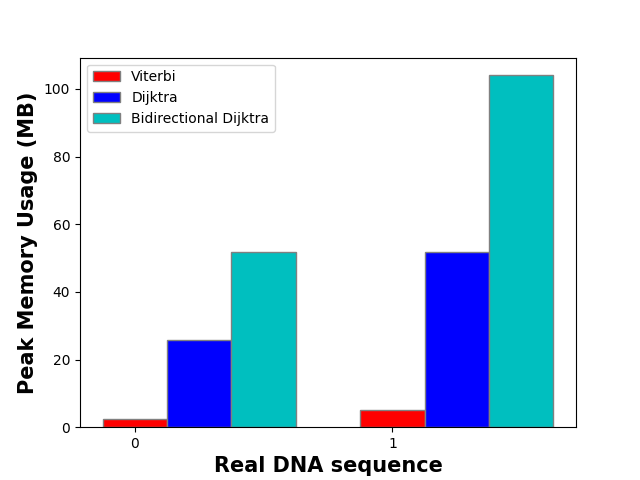
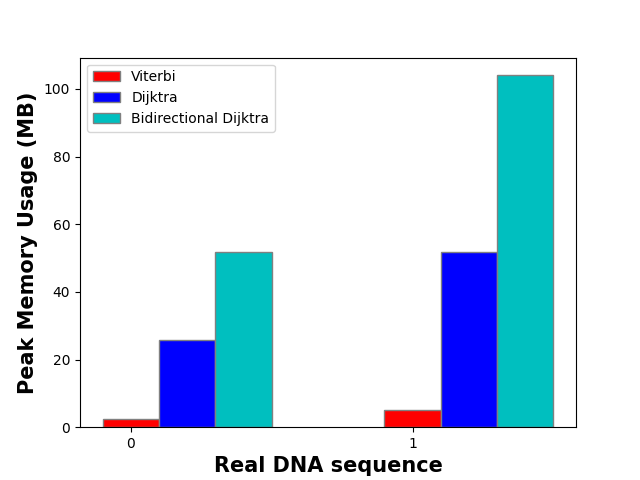
Clean up and finalizing

diff --git a/testing.py b/testing.py
@@ -124,7 +124,7 @@ def generateDijkstraTime():
         tracemalloc.stop()
 
 
-# Running all DNA seq on bidijkstra
+# Running all DNA seq on bi-directional dijkstra
 def generateBidijkstraTime():
     for file in files:
         start_time = time.time_ns()
@@ -144,16 +144,21 @@ def generateRealSeqTime():
     realFile.append(read_fasta_multilines("C:\\Users\\wzhyt\\Downloads\\dont_delete\\CS4775FinalProject\\CS4775FinalProject\\chimpanzee.txt"))
     realFile.append(read_fasta_multilines("C:\\Users\\wzhyt\\Downloads\\dont_delete\\CS4775FinalProject\\CS4775FinalProject\\human_chrome.txt"))
     for file in realFile:
+
+        # Viterbi
         start_time = time.time_ns()
         a, b = viterbi.viterbi(file, transition_probabilities, emission_probabilities, initial_probabilities)
         end_time = time.time_ns()
         time_elapsed = (end_time - start_time) / 1000000
-        realVTime.append(math.log10(time_elapsed))
+        realVTime.append(time_elapsed)
         tracemalloc.start()
         a, b = viterbi.viterbi(file, transition_probabilities, emission_probabilities, initial_probabilities)
         realVMem.append(tracemalloc.get_traced_memory()[1] / (1024 * 1024))
         tracemalloc.stop()
         print(time_elapsed)
+
+        #Bellman Ford ( > 15 minutes to run)
+
         # start_time = time.time_ns()
         # a, b = bellman.bellman_ford(file, transition_probabilities, emission_probabilities, initial_probabilities)
         # end_time = time.time_ns()
@@ -164,21 +169,25 @@ def generateRealSeqTime():
         # realBMem.append(tracemalloc.get_traced_memory()[1] / (1024 * 1024))
         # tracemalloc.stop()
         # # print(time_elapsed)
+
+        # Dijkstra
         start_time = time.time_ns()
         a, b = dijkstra.dijkstra(file, transition_probabilities, emission_probabilities, initial_probabilities)
         end_time = time.time_ns()
         time_elapsed = (end_time - start_time) / 1000000
-        realDTime.append(math.log10(time_elapsed))
+        realDTime.append(time_elapsed)
         tracemalloc.start()
         a, b = dijkstra.dijkstra(file, transition_probabilities, emission_probabilities, initial_probabilities)
         realDMem.append(tracemalloc.get_traced_memory()[1] / (1024 * 1024))
         tracemalloc.stop()
         print(time_elapsed)
+
+        # Bi-directional Dijkstra
         start_time = time.time_ns()
         a, b = bidirecdijkstra.bidirectional_dijkstra(file, transition_probabilities, emission_probabilities, initial_probabilities)
         end_time = time.time_ns()
         time_elapsed = (end_time - start_time) / 1000000
-        realBiDTime.append(math.log10(time_elapsed))
+        realBiDTime.append(time_elapsed)
         tracemalloc.start()
         a, b = bidirecdijkstra.bidirectional_dijkstra(file, transition_probabilities, emission_probabilities, initial_probabilities)
         realBiDMem.append(tracemalloc.get_traced_memory()[1] / (1024 * 1024))

diff --git a/main.py b/main.py
@@ -1,5 +1,3 @@
-import math
-
 import testing
 import pandas as pd
 
@@ -9,7 +7,10 @@ import matplotlib.pyplot as plt
 
 
 def main():
+    # Generate all the data
     testing.testRunTime()
+
+    # Printing the numerical values
     d = {
         'Viterbi': testing.viterbiTime,
         'Bellman': testing.bellmanTime,
@@ -33,6 +34,9 @@ def main():
     df1 = pd.DataFrame(data=d1)
 
 
+    # Creating the bar charts
+
+    # Synthetic DNA Sequence RunTime
     xaxis = [i for i in range(len(testing.viterbiTime))]
     barWidth = 0.2
     br1 = np.arange(len(testing.viterbiTime))
@@ -53,6 +57,7 @@ def main():
     plt.legend()
     plt.savefig('Run_Time.png')
 
+    # Synthetic DNA Sequence Peak Memory Usage
     plt.clf()
     plt.bar(br1, testing.viterbiMem, color='r', width=barWidth,
             edgecolor='grey', label='Viterbi')
@@ -68,8 +73,9 @@ def main():
     plt.legend()
     plt.savefig('Memory_Usage.png')
 
+    # Real DNA Sequence RunTime
     xaxis = [i for i in range(len(testing.realVTime))]
-    barWidth = 0.25
+    barWidth = 0.2
     br1 = np.arange(len(testing.realVTime))
     br2 = [x + barWidth for x in br1]
     br3 = [x + barWidth for x in br2]
@@ -87,6 +93,7 @@ def main():
     plt.legend()
     plt.savefig('Real_Run_Time.png')
 
+    # Real DNA Sequence Peak Memory Usage
     plt.clf()
     plt.bar(br1, testing.realVMem, color='r', width=barWidth,
             edgecolor='grey', label='Viterbi')
@@ -100,6 +107,7 @@ def main():
     plt.legend()
     plt.savefig('Real_Memory_Usage.png')
 
+    # Printing out the numerical values
     print(df)
     print(df1)
     print(df2)
